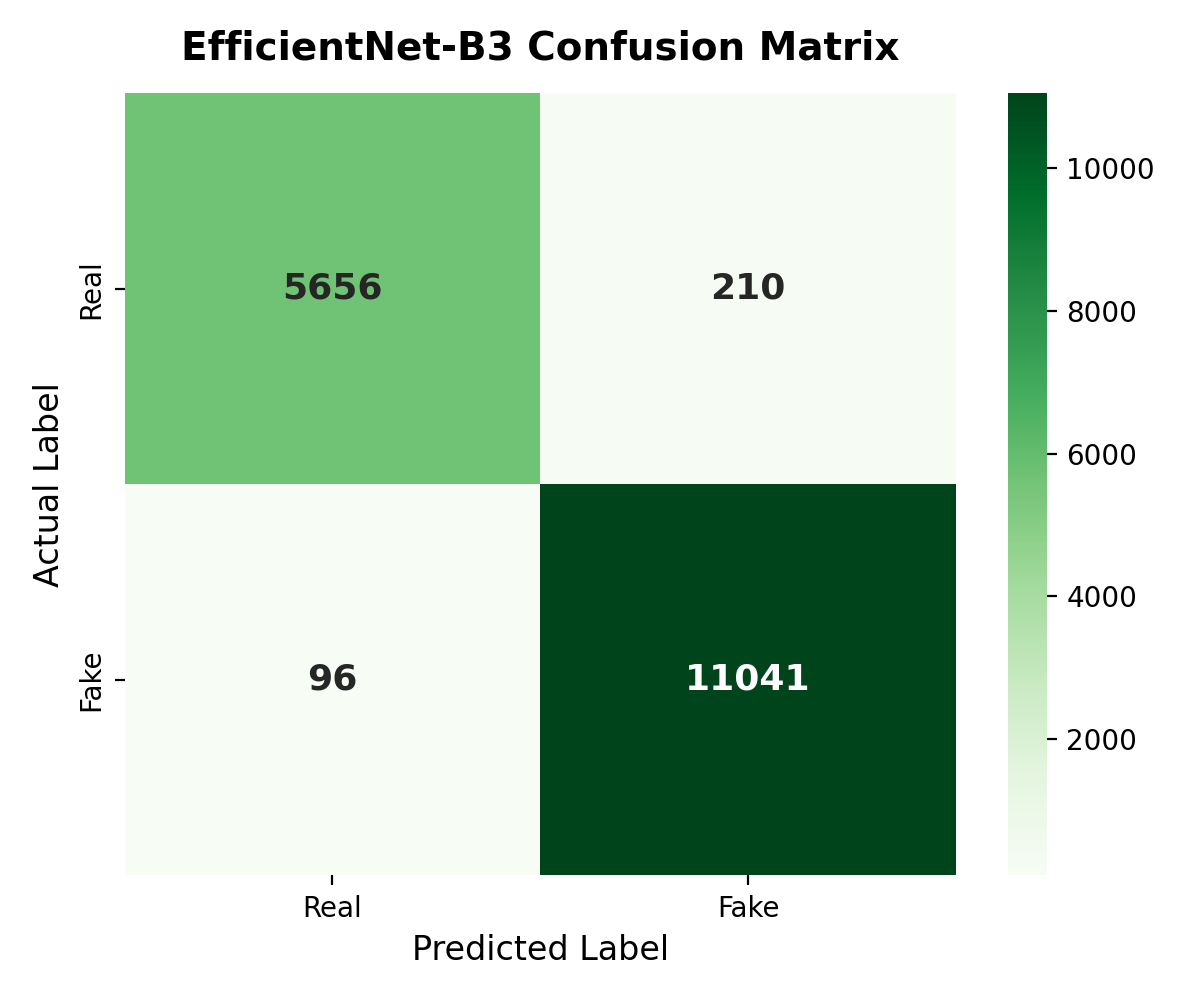
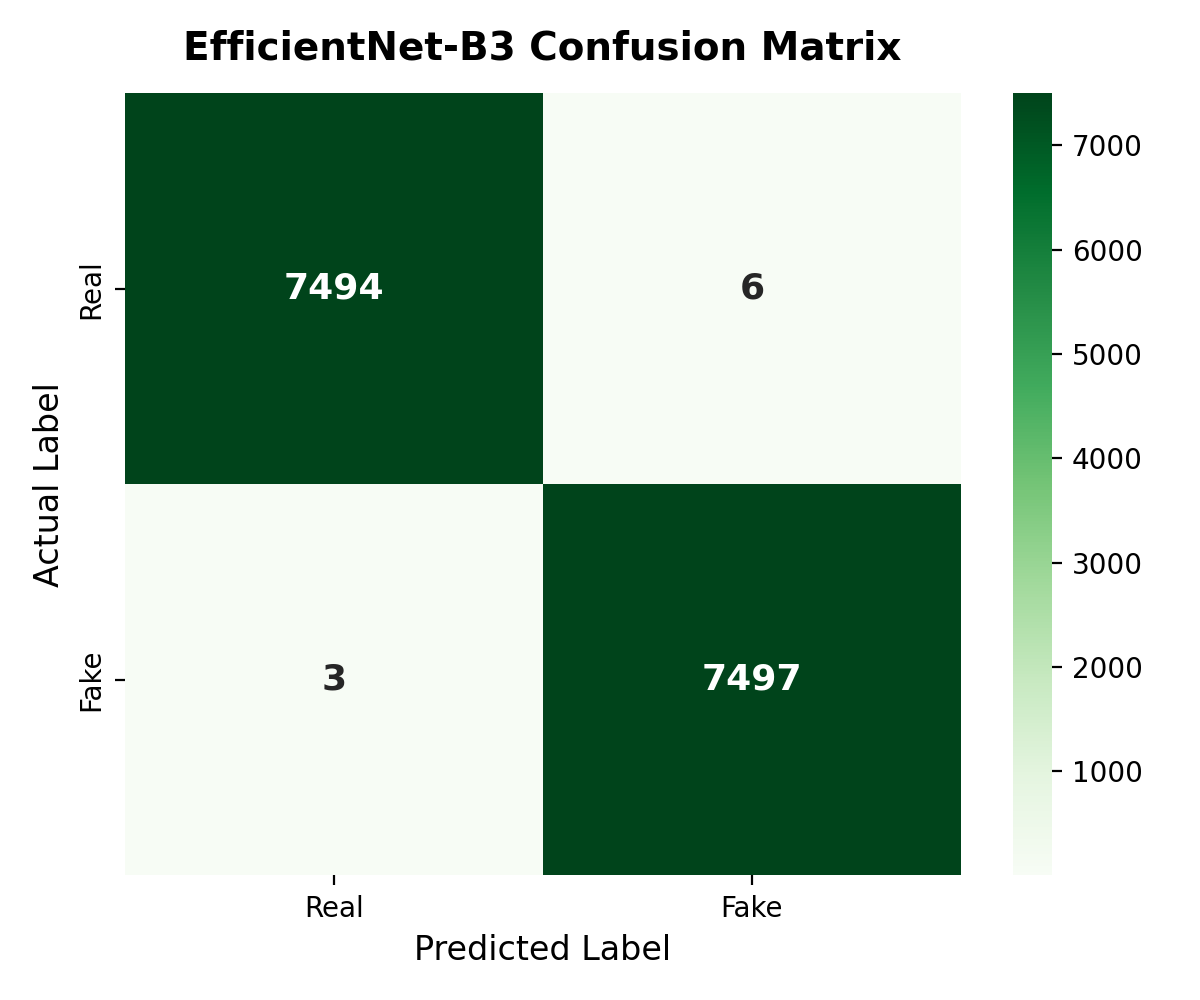
Update EfficientNet-B3 with 140k dataset weights, metrics, and loss curves

diff --git a/scripts/build_metrics_charts.py b/scripts/build_metrics_charts.py
@@ -18,9 +18,9 @@ models_data = {
         "name": "XceptionNet"
     },
     "efficientnet": {
-        "cm": np.array([[5656, 210], [96, 11041]]),
+        "cm": np.array([[7494, 6], [3, 7497]]),
         "cmap": "Greens",
-        "auc": 0.9976,
+        "auc": 1.0000,
         "name": "EfficientNet-B3"
     },
     "vit_small": {
@@ -76,4 +76,98 @@ for key, d in models_data.items():
     plt.savefig(out_dir / f"roc_{key}.png", dpi=200)
     plt.close()
 
-print("Successfully generated all Confusion Matrix and ROC Curve charts in metrics/!")
+# 3. EfficientNet-B3 Training Curves (Loss & Accuracy)
+epochs = np.arange(1, 13)
+train_loss = np.array([0.114, 0.020, 0.009, 0.007, 0.006, 0.005, 0.004, 0.004, 0.003, 0.003, 0.004, 0.002])
+val_loss = np.array([0.019, 0.007, 0.004, 0.009, 0.145, 0.008, 0.003, 0.007, 0.001, 0.005, 0.002, 0.003])
+train_acc = np.array([0.954, 0.993, 0.996, 0.997, 0.998, 0.998, 0.999, 0.999, 0.999, 0.999, 0.999, 0.999])
+val_acc = np.array([0.993, 0.998, 0.998, 0.996, 0.998, 0.995, 0.999, 0.999, 0.999, 0.999, 0.999, 0.999])
+
+fig, axes = plt.subplots(1, 2, figsize=(14, 6))
+
+# Panel 1: Loss Curve
+axes[0].plot(epochs, train_loss, marker="o", lw=2, label="Train Loss", color="#1f77b4")
+axes[0].plot(epochs, val_loss, marker="o", lw=2, label="Val Loss", color="#ff7f0e")
+axes[0].set_title("Train / Val Loss Curve", fontsize=14, fontweight="bold", pad=12)
+axes[0].set_xlabel("Epoch", fontsize=12)
+axes[0].set_ylabel("Loss", fontsize=12)
+axes[0].grid(True, alpha=0.3)
+axes[0].legend(fontsize=11)
+
+# Panel 2: Accuracy Curve
+axes[1].plot(epochs, train_acc, marker="o", lw=2, label="Train Acc", color="#1f77b4")
+axes[1].plot(epochs, val_acc, marker="o", lw=2, label="Val Acc", color="#ff7f0e")
+axes[1].set_title("Train / Val Accuracy Curve", fontsize=14, fontweight="bold", pad=12)
+axes[1].set_xlabel("Epoch", fontsize=12)
+axes[1].set_ylabel("Accuracy", fontsize=12)
+axes[1].set_ylim([0.0, 1.05])
+axes[1].grid(True, alpha=0.3)
+axes[1].legend(fontsize=11)
+
+plt.tight_layout()
+plt.savefig(out_dir / "curves_efficientnet.png", dpi=200)
+plt.close()
+
+# Single Loss Curve
+fig, ax = plt.subplots(figsize=(6, 5))
+ax.plot(epochs, train_loss, marker="o", lw=2, label="Train Loss", color="#1f77b4")
+ax.plot(epochs, val_loss, marker="o", lw=2, label="Val Loss", color="#ff7f0e")
+ax.set_title("EfficientNet-B3 Loss Curve", fontsize=14, fontweight="bold", pad=12)
+ax.set_xlabel("Epoch", fontsize=12)
+ax.set_ylabel("Loss", fontsize=12)
+ax.grid(True, alpha=0.3)
+ax.legend(fontsize=11)
+plt.tight_layout()
+plt.savefig(out_dir / "loss_efficientnet.png", dpi=200)
+plt.close()
+
+# Single Accuracy Curve
+fig, ax = plt.subplots(figsize=(6, 5))
+ax.plot(epochs, train_acc, marker="o", lw=2, label="Train Acc", color="#1f77b4")
+ax.plot(epochs, val_acc, marker="o", lw=2, label="Val Acc", color="#ff7f0e")
+ax.set_title("EfficientNet-B3 Accuracy Curve", fontsize=14, fontweight="bold", pad=12)
+ax.set_xlabel("Epoch", fontsize=12)
+ax.set_ylabel("Accuracy", fontsize=12)
+ax.set_ylim([0.0, 1.05])
+ax.grid(True, alpha=0.3)
+ax.legend(fontsize=11)
+plt.tight_layout()
+plt.savefig(out_dir / "accuracy_efficientnet.png", dpi=200)
+plt.close()
+
+# 4. ViT-Small Loss Curve (Epochs 0 to 5)
+vit_epochs = np.arange(0, 6)
+vit_train_loss = np.array([0.332, 0.119, 0.066, 0.055, 0.045, 0.034])
+vit_val_loss = np.array([0.162, 0.207, 0.093, 0.185, 0.495, 0.131])
+
+fig, ax = plt.subplots(figsize=(6, 5))
+ax.plot(vit_epochs, vit_train_loss, color="blue", lw=2, label="Train Loss")
+ax.plot(vit_epochs, vit_val_loss, color="orange", lw=2, label="Val Loss")
+ax.set_title("vit_small Loss Curve", fontsize=14, fontweight="bold", pad=12)
+ax.set_xlabel("Epoch", fontsize=12)
+ax.set_ylabel("Loss", fontsize=12)
+ax.grid(True, alpha=0.3)
+ax.legend(loc="upper left", fontsize=11)
+plt.tight_layout()
+plt.savefig(out_dir / "loss_vit_small.png", dpi=200)
+plt.close()
+
+# 5. Xception Loss Curve (Epochs 0 to 8)
+xcp_epochs = np.arange(0, 9)
+xcp_train_loss = np.array([0.308, 0.088, 0.039, 0.028, 0.024, 0.004, 0.001, 0.026, 0.003])
+xcp_val_loss = np.array([0.150, 0.157, 0.132, 0.075, 0.103, 0.086, 0.095, 0.077, 0.120])
+
+fig, ax = plt.subplots(figsize=(6, 5))
+ax.plot(xcp_epochs, xcp_train_loss, color="blue", lw=2, label="Train Loss")
+ax.plot(xcp_epochs, xcp_val_loss, color="orange", lw=2, label="Val Loss")
+ax.set_title("xception Loss Curve", fontsize=14, fontweight="bold", pad=12)
+ax.set_xlabel("Epoch", fontsize=12)
+ax.set_ylabel("Loss", fontsize=12)
+ax.grid(True, alpha=0.3)
+ax.legend(loc="upper right", fontsize=11)
+plt.tight_layout()
+plt.savefig(out_dir / "loss_xception.png", dpi=200)
+plt.close()
+
+print("Successfully generated all Confusion Matrix, ROC, Loss, and Accuracy charts in metrics/!")
+

diff --git a/core/detector.py b/core/detector.py
@@ -120,7 +120,7 @@ class Detector:
     # --------------------------------------------------------------- image
     def detect_image(self, image_path, artifacts_dir,
                      original_name: str | None = None) -> dict:
-        """UC-03: 4-model soft-voting ensemble for image deepfake detection."""
+        """UC-03: 4-model soft-voting ensemble for image deepfake detection with TTA."""
         with self.lock:
             artifacts = self._artifacts_dir(artifacts_dir)
             bgr = cv2.imread(str(image_path))
@@ -128,30 +128,34 @@ class Detector:
                 raise RuntimeError("Could not read the uploaded image.")
 
             face, box, conf = self.pre.detect_face(bgr)          # FR-06..FR-08
-            clip = self._to_clip_tensor([face])                   # [1,3,224,224]
+            
+            # TTA (Test-Time Augmentation): Original + Horizontally Flipped face crop.
+            # Averages out directional lighting, glare, and smartphone portrait-mode edge anomalies.
+            face_flipped = cv2.flip(face, 1)
+            clip = self._to_clip_tensor([face, face_flipped])    # [2, 3, 224, 224]
 
             scores = {}
             with torch.no_grad(), torch.inference_mode():
                 if self.bundle.xception is not None:
-                    scores["new_xception"] = float(
-                        torch.softmax(self.bundle.xception(clip), dim=1)[0, 1].item()
-                    )
-                if self.bundle.efficientnet is not None:
-                    scores["new_efficientnet"] = float(
-                        torch.softmax(self.bundle.efficientnet(clip), dim=1)[0, 1].item()
-                    )
-                if self.bundle.vit_small is not None:
-                    scores["new_vit_small"] = float(
-                        torch.softmax(self.bundle.vit_small(clip), dim=1)[0, 1].item()
-                    )
-                if self.bundle.vit_large_clip is not None:
-                    scores["new_vit_large_clip"] = float(
-                        torch.softmax(self.bundle.vit_large_clip(clip), dim=1)[0, 1].item()
-                    )
+                    xc_probs = torch.softmax(self.bundle.xception(clip), dim=1)[:, 1]
+                    scores["new_xception"] = float(xc_probs.mean().item())
 
-            # Grad-CAM from XceptionNet (best spatial CNN for saliency)
-            gradcam_model = self.bundle.xception
-            saliency = compute_gradcam_heatmap(gradcam_model, clip, self.device)
+                if self.bundle.efficientnet is not None:
+                    eff_probs = torch.softmax(self.bundle.efficientnet(clip), dim=1)[:, 1]
+                    scores["new_efficientnet"] = float(eff_probs.mean().item())
+
+                if self.bundle.vit_small is not None:
+                    vs_probs = torch.softmax(self.bundle.vit_small(clip), dim=1)[:, 1]
+                    scores["new_vit_small"] = float(vs_probs.mean().item())
+
+                if self.bundle.vit_large_clip is not None:
+                    vlc_probs = self.bundle.vit_large_clip.predict_proba(clip.cpu().numpy())
+                    scores["new_vit_large_clip"] = float(vlc_probs.mean())
+
+            # Grad-CAM from XceptionNet on the original face crop
+            clip_orig = clip[:1]  # [1, 3, 224, 224]
+            gradcam_model = self.bundle.xception or self.bundle.efficientnet
+            saliency = compute_gradcam_heatmap(gradcam_model, clip_orig, self.device)
             heat_p = save_heatmap_overlay(saliency, face, artifacts / "heatmap.png")
             crop_p = self._persist_png(face, artifacts / "face_crop.png")
 

diff --git a/core/ensemble.py b/core/ensemble.py
@@ -43,25 +43,29 @@ class Ensemble:
     """Configured weighted-soft-voting helper."""
 
     def __init__(self, cfg: Config):
-        self.threshold = float(cfg.ensemble.threshold)
+        default_thresh = float(cfg.ensemble.get("threshold", 0.50))
+        self.image_threshold = float(cfg.ensemble.get("image_threshold", 0.50))
+        self.video_threshold = float(cfg.ensemble.get("video_threshold", default_thresh))
         self.image_weights = {k: float(v) for k, v in cfg.ensemble.image_weights.items()}
         self.video_weights = {k: float(v) for k, v in cfg.ensemble.video_weights.items()}
 
     def combine(self, scores: dict[str, float], kind: str) -> dict:
         weights = self.video_weights if kind == "video" else self.image_weights
+        threshold = self.video_threshold if kind == "video" else self.image_threshold
         p_fake = weighted_average(scores, weights)
-        result = self.to_verdict(p_fake)
+        result = self.to_verdict(p_fake, threshold=threshold)
         result["scores"] = {k: round(v, 4) for k, v in scores.items()}
         result["disagreement"] = False
         return result
 
-    def to_verdict(self, p_fake: float) -> dict:
+    def to_verdict(self, p_fake: float, threshold: float | None = None) -> dict:
+        thresh = self.image_threshold if threshold is None else threshold
         return {
-            "verdict": "FAKE" if p_fake >= self.threshold else "REAL",
+            "verdict": "FAKE" if p_fake >= thresh else "REAL",
             "p_fake": round(float(p_fake), 4),
             "confidence": round(
-                p_fake * 100.0 if p_fake >= self.threshold else (1.0 - p_fake) * 100.0,
+                p_fake * 100.0 if p_fake >= thresh else (1.0 - p_fake) * 100.0,
                 2,
             ),
-            "threshold": self.threshold,
+            "threshold": thresh,
         }
